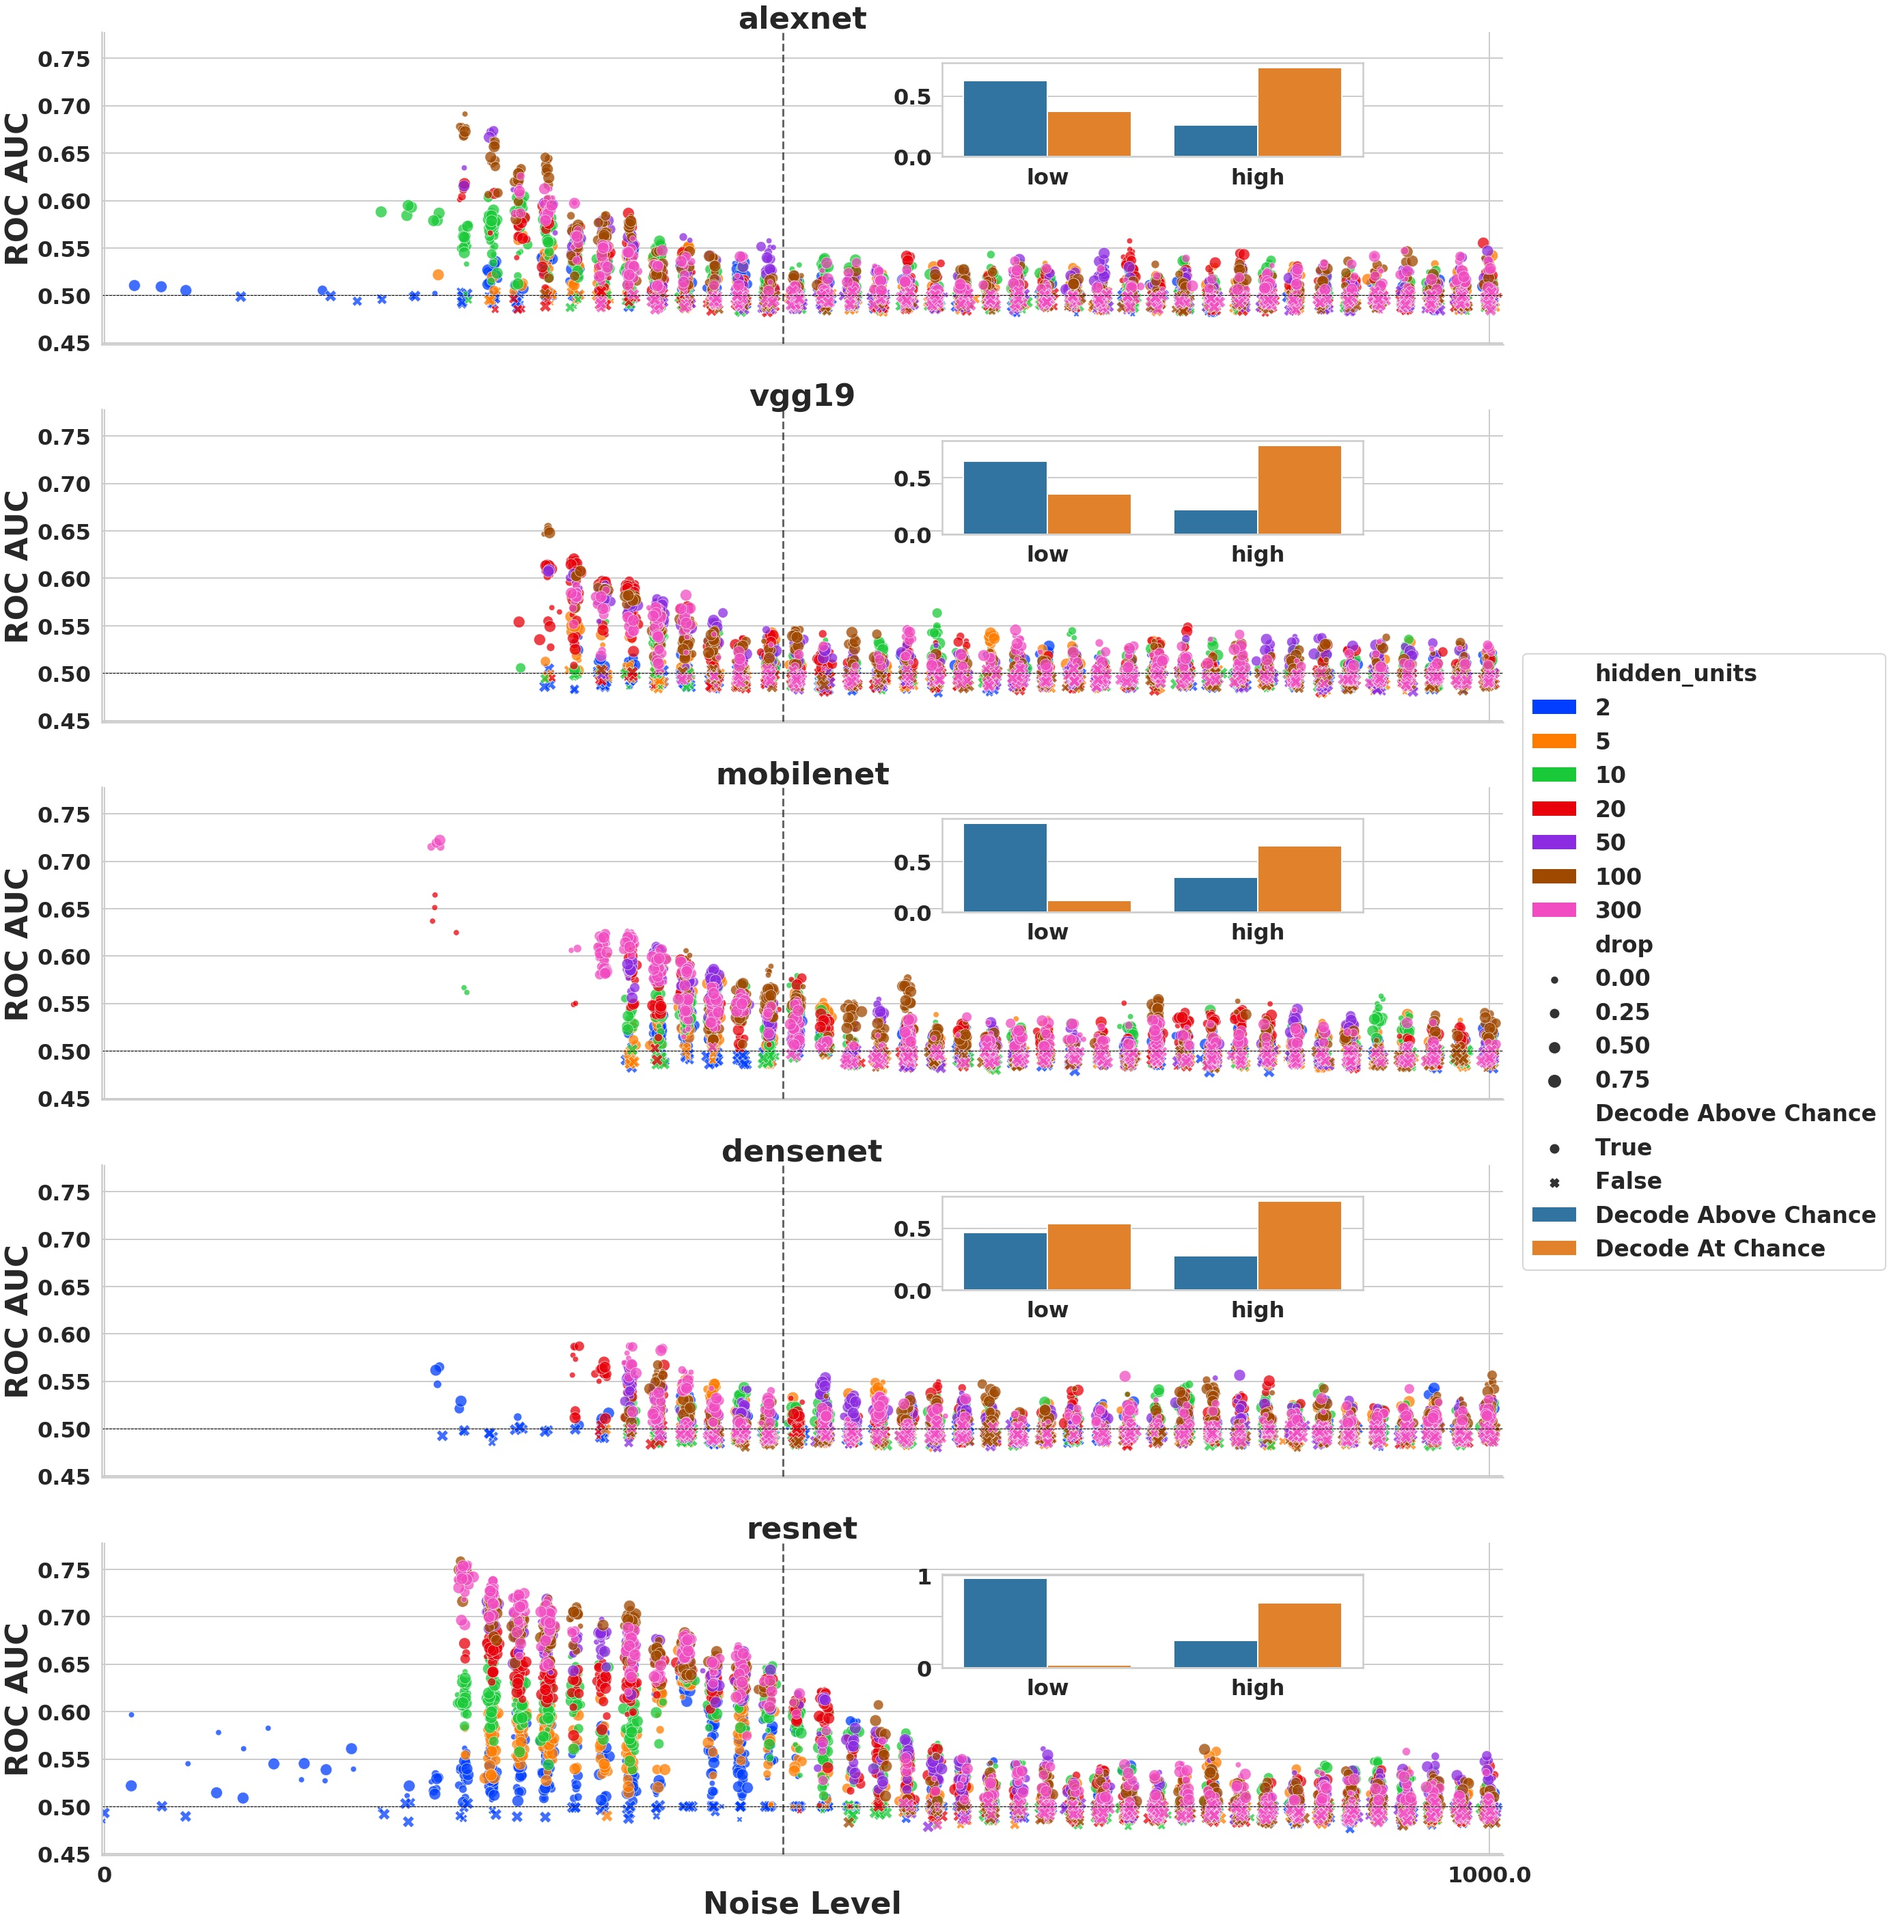
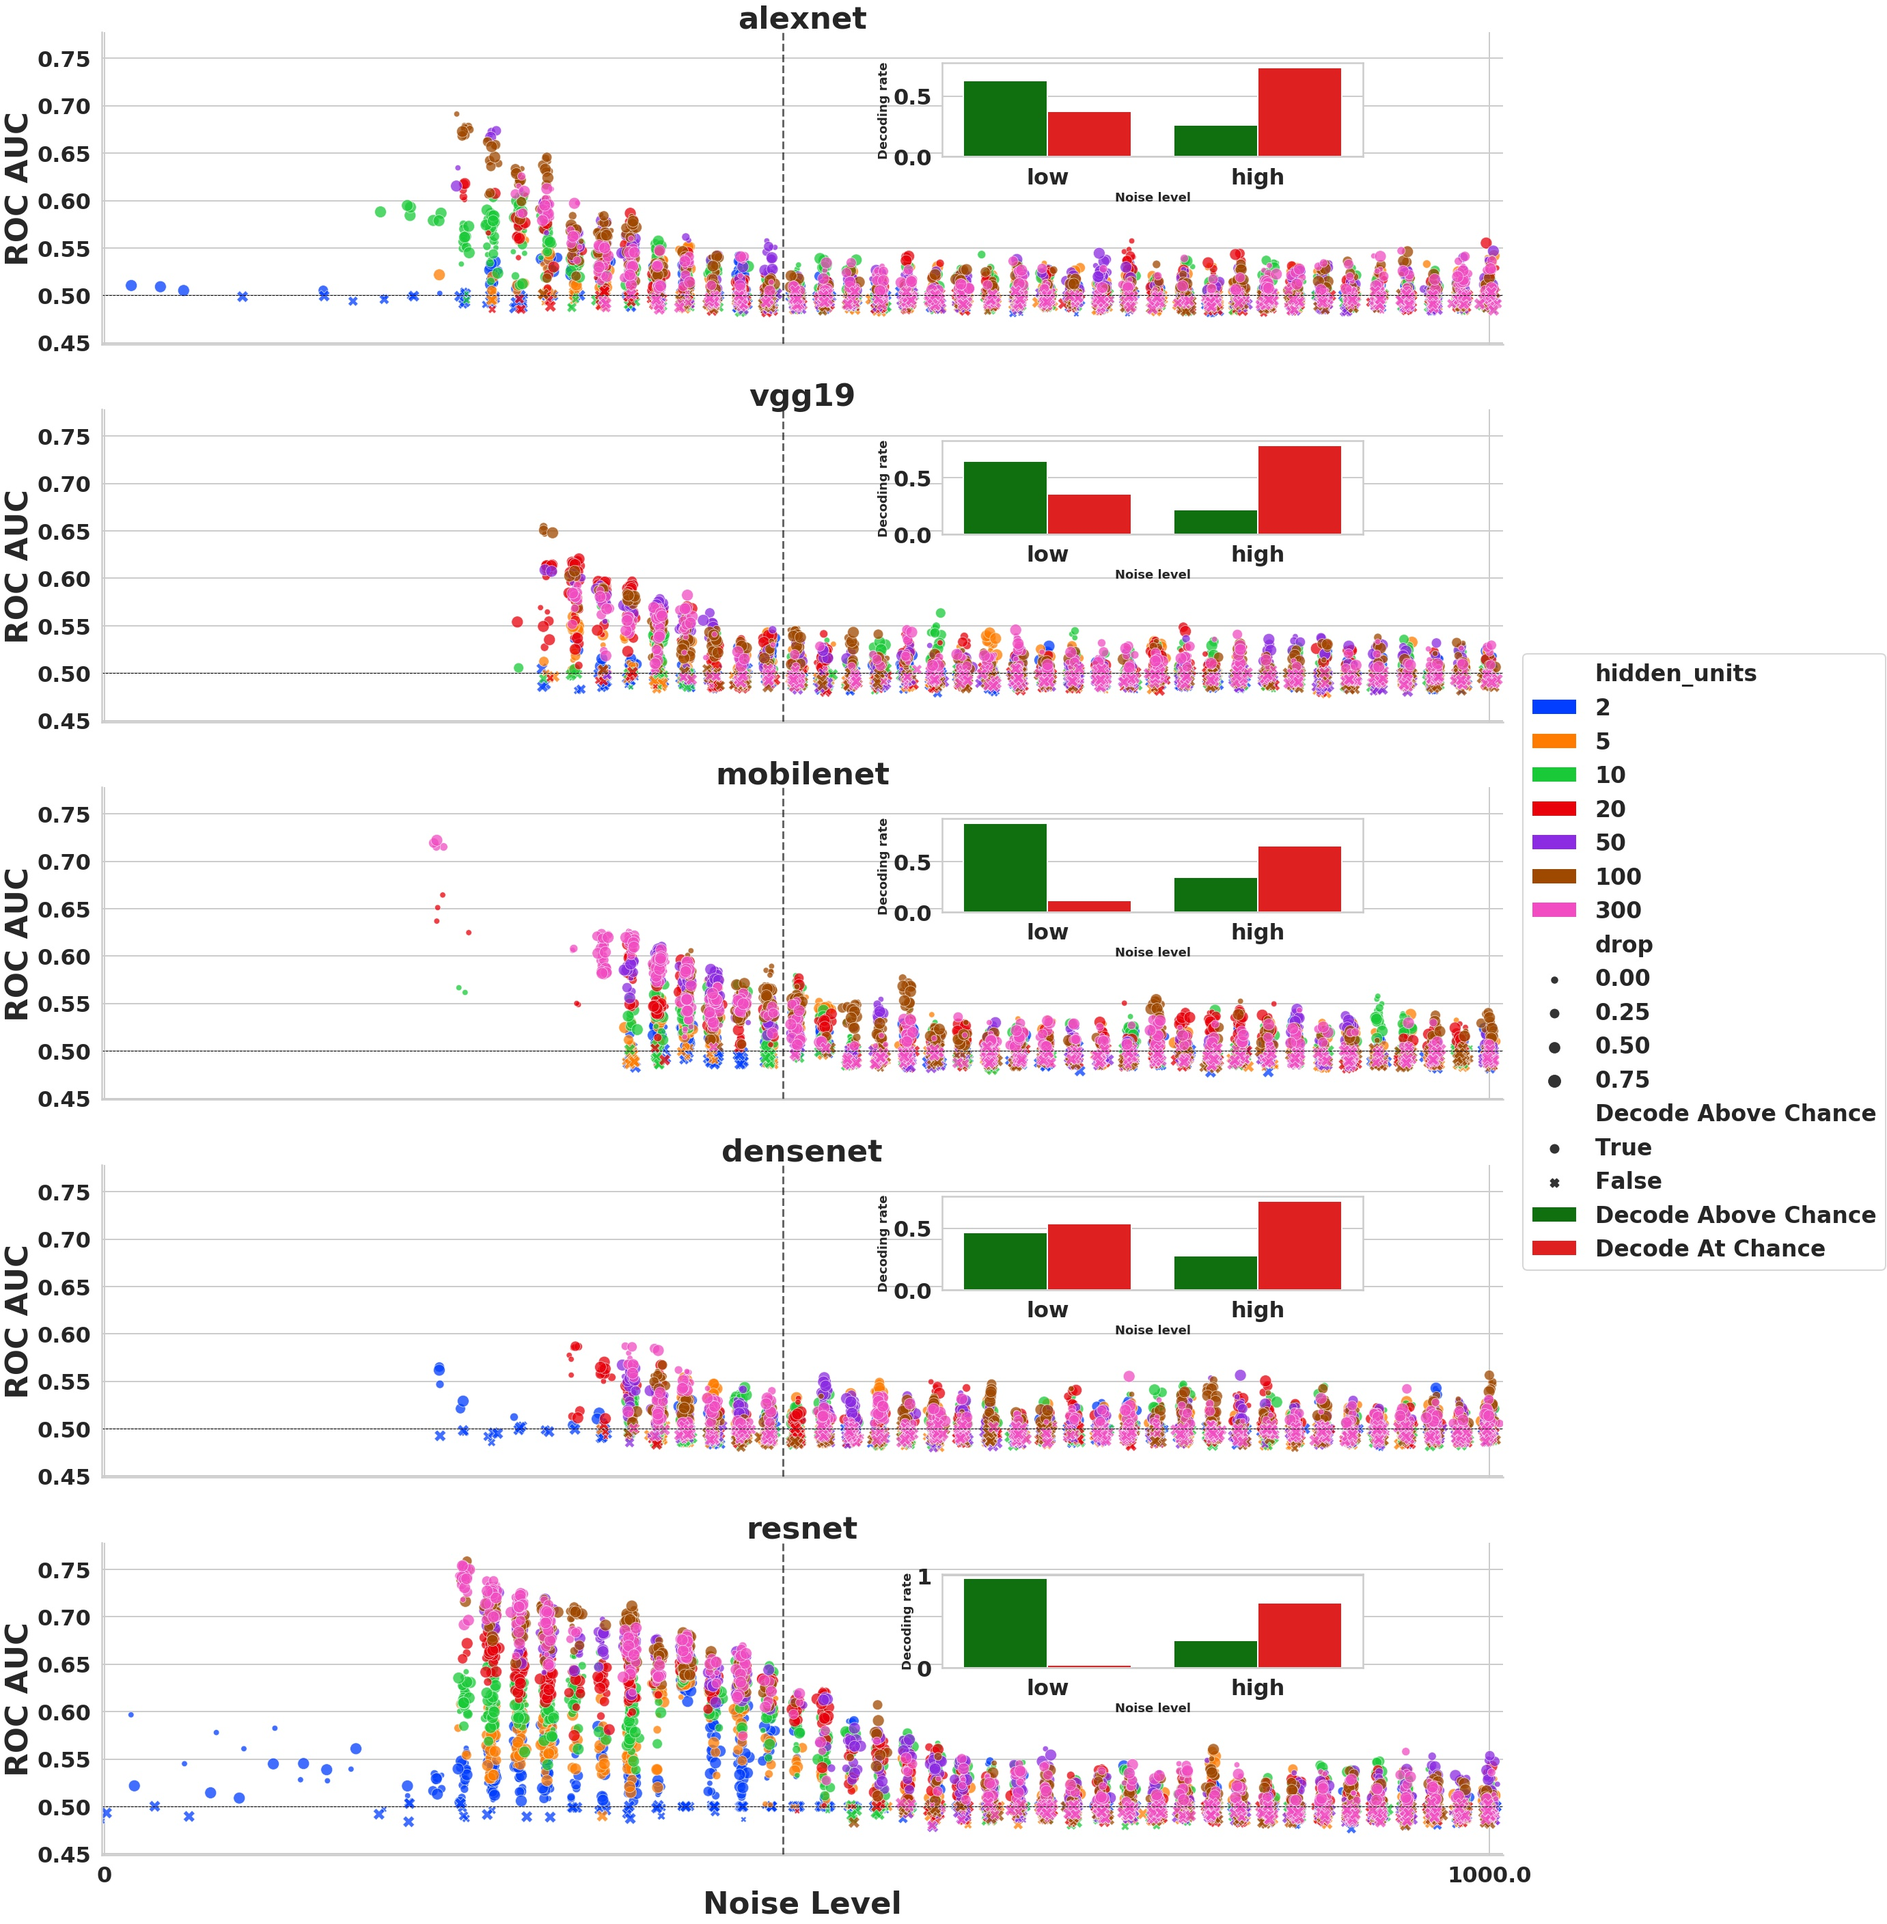
update

diff --git a/scripts/4.1.plot_performance.py b/scripts/4.1.plot_performance.py
@@ -129,6 +129,9 @@ g.savefig(os.path.join(figure_dir,'CNN_performance (light).jpeg'),
 g.savefig(os.path.join(paper_dir,'CNN_performance.jpeg'),
           dpi               = 300,
           bbox_inches       = 'tight')
+g.savefig(os.path.join(paper_dir,'CNN_performance_light.jpeg'),
+#          dpi               = 300,
+          bbox_inches       = 'tight')
 
 # plot the decoding when CNN failed
 idxs            = np.logical_or(df['model'] == 'CNN',df['model'] == 'linear-SVM')
@@ -231,10 +234,11 @@ for model_name,ax in zip(['alexnet','vgg19','mobilenet','densenet','resnet',],g.
                           hue_order = [True,False],
                           data = counter,
                           ax = tiny_ax,
+                          palette = ['green','red'],
                           )
     # tiny_ax.set(xticklabels = ['low','medium','high'],
-    tiny_ax.set_xlabel('')
-    tiny_ax.set_ylabel('')
+    tiny_ax.set_xlabel('Noise level',fontsize = 18)
+    tiny_ax.set_ylabel('Decoding rate',fontsize = 18)
     tiny_handles,tiny_labels = tiny_ax.get_legend_handles_labels()
     tiny_ax.get_legend().remove()
     
@@ -263,6 +267,9 @@ g.savefig(os.path.join(figure_dir,'decoding_performance (light).jpeg'),
           bbox_inches = 'tight')
 g.savefig(os.path.join(paper_dir,'decoding_performance.jpeg'),
           dpi = 300,
+          bbox_inches = 'tight')
+g.savefig(os.path.join(paper_dir,'decoding_performance_light.jpeg'),
+#          dpi = 300,
           bbox_inches = 'tight')
 
 #fig,axes = plt.subplots(figsize = (70,40),
